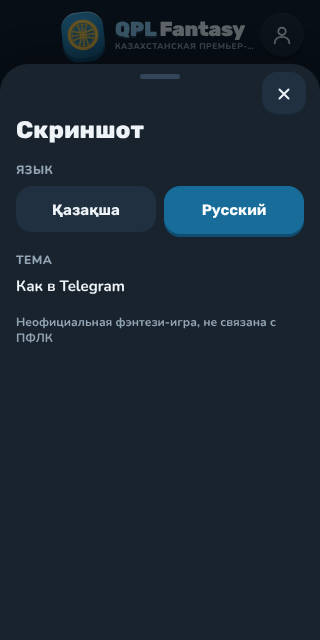
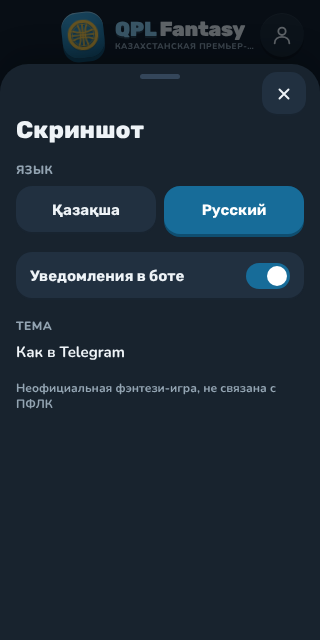
profile: notification toggle and server-side language
Claude-Session: https://claude.ai/code/session_019QXyo2WQVwYpKjnMro5LC1

diff --git a/apps/web/src/screens/Profile.tsx b/apps/web/src/screens/Profile.tsx
@@ -1,4 +1,6 @@
-// Профиль: тіл (қазақша / орысша), тема Telegram-дағыдай, бейресми ойын туралы ескерту.
+// Профиль: тіл (қазақша / орысша), боттағы хабарламалар, тема Telegram-дағыдай, бейресми ойын туралы ескерту.
+import { useState } from 'react';
+import type { Api } from '../api.js';
 import { Sheet } from '../components/Sheet.js';
 import { useT, type Lang } from '../i18n/useT.js';
 import { useTheme } from '../theme/ThemeProvider.js';
@@ -7,9 +9,37 @@ import { FONT_NUM } from '../theme/tokens.js';
 // Тіл атауы әрқашан өз тілінде
 const LANGS: [Lang, string][] = [['kk', 'Қазақша'], ['ru', 'Русский']];
 
-export function Profile({ name, lang, onLang, onClose }: { name: string; lang: Lang; onLang: (l: Lang) => void; onClose: () => void }) {
+export interface ProfileProps {
+  name: string;
+  lang: Lang;
+  notify: boolean;
+  onNotify: (v: boolean) => void;
+  api: Pick<Api, 'saveProfile'>;
+  onLang: (l: Lang) => void;
+  onClose: () => void;
+}
+
+export function Profile({ name, lang, notify, onNotify, api, onLang, onClose }: ProfileProps) {
   const t = useTheme();
   const tr = useT();
+  const [error, setError] = useState(false);
+
+  // Тіл серверге де жазылады: хабарламалар таңдалған тілде келеді
+  const chooseLang = (code: Lang) => {
+    onLang(code);
+    void api.saveProfile({ lang: code });
+  };
+  // Ауыстырғыш бірден ауысады; сервер бас тартса — қайтады
+  async function toggleNotify() {
+    const next = !notify;
+    setError(false);
+    onNotify(next);
+    const r = await api.saveProfile({ notify: next });
+    if (!r.ok) {
+      onNotify(!next);
+      setError(true);
+    }
+  }
   const label = { fontSize: 12, fontWeight: 800, color: t.muted, letterSpacing: '0.04em', textTransform: 'uppercase' } as const;
   return (
     <Sheet open onClose={onClose} label={tr('profile')}>
@@ -21,13 +51,23 @@ export function Profile({ name, lang, onLang, onClose }: { name: string; lang: L
             {LANGS.map(([code, title]) => {
               const on = code === lang;
               return (
-                <button key={code} type="button" aria-pressed={on} onClick={() => onLang(code)}
+                <button key={code} type="button" aria-pressed={on} onClick={() => chooseLang(code)}
                   style={{ height: 48, borderRadius: 16, border: 0, background: on ? t.primary : t.card2, color: on ? '#FFFFFF' : t.ink, boxShadow: on ? `0 3px 0 ${t.lip}` : `inset 0 -2px 0 ${t.tileLip}`, fontFamily: FONT_NUM, fontWeight: 700, fontSize: 15, cursor: 'pointer' }}>
                   {title}
                 </button>
               );
             })}
           </div>
+        </div>
+        <div style={{ display: 'flex', flexDirection: 'column', gap: 8 }}>
+          <button type="button" role="switch" aria-checked={notify} onClick={toggleNotify}
+            style={{ display: 'flex', alignItems: 'center', justifyContent: 'space-between', gap: 12, minHeight: 48, padding: '0 14px', borderRadius: 16, border: 0, background: t.card2, color: t.ink, boxShadow: `inset 0 -2px 0 ${t.tileLip}`, fontFamily: FONT_NUM, fontWeight: 700, fontSize: 15, cursor: 'pointer', textAlign: 'left' }}>
+            <span>{tr('notifications')}</span>
+            <span aria-hidden="true" style={{ flexShrink: 0, width: 44, height: 26, borderRadius: 13, background: notify ? t.primary : t.line, position: 'relative', transition: 'background 0.15s' }}>
+              <span style={{ position: 'absolute', top: 3, left: notify ? 21 : 3, width: 20, height: 20, borderRadius: 10, background: '#FFFFFF', transition: 'left 0.15s' }} />
+            </span>
+          </button>
+          {error && <span role="alert" style={{ fontSize: 13, fontWeight: 800, color: t.hard[1] }}>{tr('errorGeneric')}</span>}
         </div>
         <div style={{ display: 'flex', flexDirection: 'column', gap: 8 }}>
           <span style={label}>{tr('theme')}</span>

diff --git a/apps/web/test/profile.test.tsx b/apps/web/test/profile.test.tsx
@@ -1,0 +1,52 @@
+import { cleanup } from '@testing-library/react';
+import { fireEvent, render, screen, waitFor } from '@testing-library/react';
+import { useState } from 'react';
+import { afterEach, describe, expect, it, vi } from 'vitest';
+import { LangProvider, type Lang } from '../src/i18n/useT.js';
+import { Profile } from '../src/screens/Profile.js';
+import { ThemeProvider } from '../src/theme/ThemeProvider.js';
+
+afterEach(cleanup);
+
+function setup(result: unknown = { ok: true, value: { lang: 'ru', notify: false } }) {
+  const api = { saveProfile: vi.fn().mockResolvedValue(result) };
+  const onLang = vi.fn();
+  function Host() {
+    const [notify, setNotify] = useState(true);
+    return <Profile name="Ая" lang={'ru' as Lang} notify={notify} onNotify={setNotify} api={api} onLang={onLang} onClose={() => {}} />;
+  }
+  render(
+    <ThemeProvider>
+      <LangProvider lang="ru">
+        <Host />
+      </LangProvider>
+    </ThemeProvider>
+  );
+  return { api, onLang };
+}
+
+describe('Profile', () => {
+  it('переключатель уведомлений сохраняет выбор на сервере', async () => {
+    const { api } = setup();
+    const toggle = screen.getByRole('switch', { name: 'Уведомления в боте' });
+    expect(toggle.getAttribute('aria-checked')).toBe('true');
+    fireEvent.click(toggle);
+    expect(toggle.getAttribute('aria-checked')).toBe('false');
+    await waitFor(() => expect(api.saveProfile).toHaveBeenCalledWith({ notify: false }));
+  });
+
+  it('сервер отказал — переключатель возвращается назад и видна ошибка', async () => {
+    setup({ ok: false, error: 'network' });
+    const toggle = screen.getByRole('switch', { name: 'Уведомления в боте' });
+    fireEvent.click(toggle);
+    await waitFor(() => expect(toggle.getAttribute('aria-checked')).toBe('true'));
+    expect(screen.getByRole('alert')).toBeTruthy();
+  });
+
+  it('смена языка сохраняется на сервере (уведомления придут на выбранном языке)', async () => {
+    const { api, onLang } = setup();
+    fireEvent.click(screen.getByRole('button', { name: 'Қазақша' }));
+    expect(onLang).toHaveBeenCalledWith('kk');
+    await waitFor(() => expect(api.saveProfile).toHaveBeenCalledWith({ lang: 'kk' }));
+  });
+});

diff --git a/supabase/functions/test/profile-save.test.ts b/supabase/functions/test/profile-save.test.ts
@@ -1,0 +1,50 @@
+import type postgres from 'postgres';
+import { afterAll, beforeAll, beforeEach, describe, expect, it } from 'vitest';
+import { signSession } from '../../../packages/auth/src/telegram.js';
+import { freshDb } from '../../../packages/db/test/helpers.js';
+import { profileSave } from '../profile-save/handler.js';
+
+const SECRET = 'fn-profile-secret';
+const NOW = 1_800_000_000;
+let sql: postgres.Sql;
+let user: string;
+let token: string;
+
+beforeAll(async () => {
+  sql = await freshDb('qpl_test_fn_profile');
+});
+afterAll(async () => {
+  await sql?.end();
+});
+beforeEach(async () => {
+  await sql`truncate users, rate_limits cascade`;
+  const [u] = await sql`insert into users (telegram_id, display_name, lang) values (77, 'Т', 'kk') returning id`;
+  user = u.id;
+  token = await signSession({ sub: user, tg: 77 }, SECRET, NOW);
+});
+
+const req = (body: unknown, auth: string | null = token) =>
+  new Request('https://x/functions/v1/profile-save', { method: 'POST', headers: auth ? { authorization: `Bearer ${auth}` } : {}, body: JSON.stringify(body) });
+const deps = () => ({ sql, sessionSecret: SECRET, nowSec: NOW });
+
+describe('profile-save', () => {
+  it('сохраняет язык и уведомления', async () => {
+    const res = await profileSave(req({ lang: 'ru', notify: false }), deps());
+    expect(res.status).toBe(200);
+    expect(await res.json()).toEqual({ ok: true, value: { lang: 'ru', notify: false } });
+  });
+
+  it('без сессии → 401; неверные значения или пустое тело → 400', async () => {
+    expect((await profileSave(req({ lang: 'ru' }, null), deps())).status).toBe(401);
+    expect((await profileSave(req({ lang: 'en' }), deps())).status).toBe(400);
+    expect((await profileSave(req({ notify: 'yes' }), deps())).status).toBe(400);
+    expect((await profileSave(req({}), deps())).status).toBe(400);
+  });
+
+  it('больше 20 запросов в минуту → 429', async () => {
+    const statuses: number[] = [];
+    for (let i = 0; i < 21; i++) statuses.push((await profileSave(req({ notify: true }), deps())).status);
+    expect(statuses.slice(0, 20).every((s) => s === 200)).toBe(true);
+    expect(statuses[20]).toBe(429);
+  });
+});

diff --git a/packages/db/test/users.test.ts b/packages/db/test/users.test.ts
@@ -1,6 +1,6 @@
 import type postgres from 'postgres';
 import { afterAll, beforeAll, describe, expect, it } from 'vitest';
-import { upsertTelegramUser } from '../src/users.js';
+import { saveProfile, upsertTelegramUser } from '../src/users.js';
 import { freshDb } from './helpers.js';
 
 let sql: postgres.Sql;
@@ -28,11 +28,24 @@ describe('upsertTelegramUser', () => {
     const first = await upsertTelegramUser(sql, { id: 504, first_name: 'Old', language_code: 'ru' });
     await sql`update users set lang = 'kk' where id = ${first.id}`;
     const again = await upsertTelegramUser(sql, { id: 504, first_name: 'New', username: 'nn', language_code: 'ru' });
-    expect(again).toEqual({ id: first.id, displayName: 'New', lang: 'kk' });
+    expect(again).toEqual({ id: first.id, displayName: 'New', lang: 'kk', notify: true });
     expect((await sql`select count(*)::int as n from users where telegram_id = 504`)[0].n).toBe(1);
   });
 
   it('нет имени → логин', async () => {
     expect((await upsertTelegramUser(sql, { id: 505, first_name: ' ', username: 'qpl_fan' })).displayName).toBe('qpl_fan');
+  });
+});
+
+describe('saveProfile', () => {
+  it('меняет язык и уведомления; включение снимает отметку «бот заблокирован»', async () => {
+    const u = await upsertTelegramUser(sql, { id: 601, first_name: 'А', language_code: 'ru' });
+    expect(await saveProfile(sql, u.id, { notify: false })).toEqual({ lang: 'ru', notify: false });
+    expect((await upsertTelegramUser(sql, { id: 601, first_name: 'А' })).notify).toBe(false);
+    expect(await saveProfile(sql, u.id, { lang: 'kk' })).toEqual({ lang: 'kk', notify: false });
+    await sql`update users set notify = '{"enabled": false, "blocked": true}' where id = ${u.id}`;
+    expect(await saveProfile(sql, u.id, { notify: true })).toEqual({ lang: 'kk', notify: true });
+    const [row] = await sql`select notify from users where id = ${u.id}`;
+    expect(row.notify).toEqual({ enabled: true });
   });
 });

diff --git a/packages/db/src/users.ts b/packages/db/src/users.ts
@@ -8,14 +8,27 @@ export interface AppUser {
   id: string;
   displayName: string;
   lang: Lang;
+  // Боттағы хабарламалар қосулы ма (әдепкі — иә)
+  notify: boolean;
 }
 
 export async function upsertTelegramUser(sql: postgres.Sql, tg: TelegramUser): Promise<AppUser> {
   const name = [tg.first_name, tg.last_name].filter(Boolean).join(' ').trim() || tg.username || String(tg.id);
   const lang: Lang = tg.language_code === 'ru' ? 'ru' : 'kk';
-  const [row] = await sql<{ id: string; display_name: string; lang: Lang }[]>`
+  const [row] = await sql<{ id: string; display_name: string; lang: Lang; notify: boolean }[]>`
     insert into users (telegram_id, display_name, lang) values (${tg.id}, ${name}, ${lang})
     on conflict (telegram_id) do update set display_name = excluded.display_name
-    returning id, display_name, lang`;
-  return { id: row.id, displayName: row.display_name, lang: row.lang };
+    returning id, display_name, lang, coalesce(notify->>'enabled', 'true') <> 'false' as notify`;
+  return { id: row.id, displayName: row.display_name, lang: row.lang, notify: row.notify };
+}
+
+// Профиль: тіл және хабарламалар. Қосқанда «ботты бұғаттаған» белгісі алынады
+export async function saveProfile(sql: postgres.Sql, userId: string, p: { lang?: Lang; notify?: boolean }): Promise<{ lang: Lang; notify: boolean }> {
+  const [row] = await sql<{ lang: Lang; notify: boolean }[]>`
+    update users set
+      lang = coalesce(${p.lang ?? null}::text, lang),
+      notify = case when ${p.notify ?? null}::boolean is null then notify else jsonb_build_object('enabled', ${p.notify ?? null}::boolean) end
+    where id = ${userId}
+    returning lang, coalesce(notify->>'enabled', 'true') <> 'false' as notify`;
+  return row;
 }

diff --git a/apps/web/src/App.tsx b/apps/web/src/App.tsx
@@ -63,7 +63,7 @@ export function App() {
     <ThemeProvider>
       <LangProvider lang={lang}>
         {boot.state === 'ready' ? (
-          <Main name={boot.session.user.displayName} lang={lang} onLang={(l) => {
+          <Main name={boot.session.user.displayName} initialNotify={boot.session.user.notify ?? true} lang={lang} onLang={(l) => {
             saveLang(l);
             setLang(l);
           }} />
@@ -80,7 +80,8 @@ interface Data {
   clubs: Map<string, ClubRow>;
 }
 
-function Main({ name, lang, onLang }: { name: string; lang: Lang; onLang: (l: Lang) => void }) {
+function Main({ name, initialNotify, lang, onLang }: { name: string; initialNotify: boolean; lang: Lang; onLang: (l: Lang) => void }) {
+  const [notify, setNotify] = useState(initialNotify);
   const th = useTheme();
   const t = useT();
   const [tab, setTab] = useState<Tab>('team');
@@ -177,7 +178,7 @@ function Main({ name, lang, onLang }: { name: string; lang: Lang; onLang: (l: La
         </div>
       )}
       {!building && <BottomNav current={tab} onNavigate={navigate} />}
-      {profile && <Profile name={name} lang={lang} onLang={onLang} onClose={() => setProfile(false)} />}
+      {profile && <Profile name={name} lang={lang} notify={notify} onNotify={setNotify} api={api} onLang={onLang} onClose={() => setProfile(false)} />}
       {card && data && (
         <PlayerCard player={card} view={data.view} clubs={data.clubs} api={fastApi} onClose={() => setCard(null)} onChanged={refreshView} onError={setToast}
           onTransferOut={(id) => {

diff --git a/supabase/functions/profile-save/handler.ts b/supabase/functions/profile-save/handler.ts
@@ -1,0 +1,19 @@
+// Профильді сақтау: тіл (kk/ru) және боттағы хабарламалар.
+import { hitRateLimit } from '../../../packages/db/src/rate-limit.js';
+import { saveProfile } from '../../../packages/db/src/users.js';
+import { badRequest, json, preflight, readJson, requireSession, unauthorized, LIMITS, tooMany, type FnDeps } from '../_shared/http.js';
+
+export async function profileSave(req: Request, deps: FnDeps): Promise<Response> {
+  const pre = preflight(req);
+  if (pre) return pre;
+  const session = await requireSession(req, deps.sessionSecret, deps.nowSec);
+  if (!session) return unauthorized();
+  if (!(await hitRateLimit(deps.sql, `${session.sub}:profile-save`, new Date(deps.nowSec * 1000), LIMITS['profile-save']))) return tooMany();
+  const body = await readJson(req);
+  const lang = body?.lang;
+  const notify = body?.notify;
+  if (lang === undefined && notify === undefined) return badRequest();
+  if (lang !== undefined && lang !== 'kk' && lang !== 'ru') return badRequest();
+  if (notify !== undefined && typeof notify !== 'boolean') return badRequest();
+  return json({ ok: true, value: await saveProfile(deps.sql, session.sub, { lang, notify }) });
+}

diff --git a/apps/web/src/api.ts b/apps/web/src/api.ts
@@ -8,7 +8,7 @@ export type { PickInput, Result, TeamView, TransferRequest, TransferResult };
 
 export interface Session {
   token: string;
-  user: { id: string; displayName: string; lang: Lang };
+  user: { id: string; displayName: string; lang: Lang; notify: boolean };
 }
 
 export interface ClubRow {
@@ -150,6 +150,10 @@ export function createApi(config: ApiConfig) {
 
     transfer(r: TransferRequest): Promise<ApiResult<TransferResult>> {
       return command('transfer-commit', r);
+    },
+
+    saveProfile(p: { lang?: Lang; notify?: boolean }): Promise<ApiResult<{ lang: Lang; notify: boolean }>> {
+      return command('profile-save', p);
     },
 
     async clubs(): Promise<ClubRow[]> {

diff --git a/apps/web/test/schedule.test.tsx b/apps/web/test/schedule.test.tsx
@@ -70,7 +70,7 @@ describe('Profile', () => {
       return (
         <ThemeProvider>
           <LangProvider lang={lang}>
-            <Profile name="Нұрлан" lang={lang} onLang={(l) => { onLang(l); setLang(l); }} onClose={() => {}} />
+            <Profile name="Нұрлан" lang={lang} notify onNotify={() => {}} api={{ saveProfile: vi.fn().mockResolvedValue({ ok: true, value: { lang, notify: true } }) }} onLang={(l) => { onLang(l); setLang(l); }} onClose={() => {}} />
           </LangProvider>
         </ThemeProvider>
       );

diff --git a/supabase/functions/_shared/http.ts b/supabase/functions/_shared/http.ts
@@ -69,4 +69,4 @@ export const badRequest = (): Response => json({ ok: false, error: 'bad_request'
 export const tooMany = (): Response => json({ ok: false, error: 'rate_limited' }, 429);
 
 // Пайдаланушы мен функция бойынша минутына шектеу
-export const LIMITS = { 'team-view': 60, 'squad-save': 20, 'transfer-commit': 20 } as const;
+export const LIMITS = { 'team-view': 60, 'squad-save': 20, 'transfer-commit': 20, 'profile-save': 20 } as const;

diff --git a/apps/web/src/i18n/ru.ts b/apps/web/src/i18n/ru.ts
@@ -86,6 +86,7 @@ export const ru: Record<keyof typeof kk, string> = {
   language: 'Язык',
   theme: 'Тема',
   themeTelegram: 'Как в Telegram',
+  notifications: 'Уведомления в боте',
   soon: 'Скоро',
   leaguesSoonTitle: 'Скоро: мини-лиги',
   leaguesSoonText: 'Создавайте свои лиги и соревнуйтесь с друзьями. Появится на следующем этапе.',

diff --git a/apps/web/src/i18n/kk.ts b/apps/web/src/i18n/kk.ts
@@ -84,6 +84,7 @@ export const kk = {
   language: 'Тіл',
   theme: 'Тема',
   themeTelegram: 'Telegram-дағыдай',
+  notifications: 'Боттағы хабарламалар',
   soon: 'Жақында',
   leaguesSoonTitle: 'Жақында: мини-лигалар',
   leaguesSoonText: 'Достарыңмен өз лигаңды құрып, жарысатын боласың. Келесі кезеңде қосылады.',
